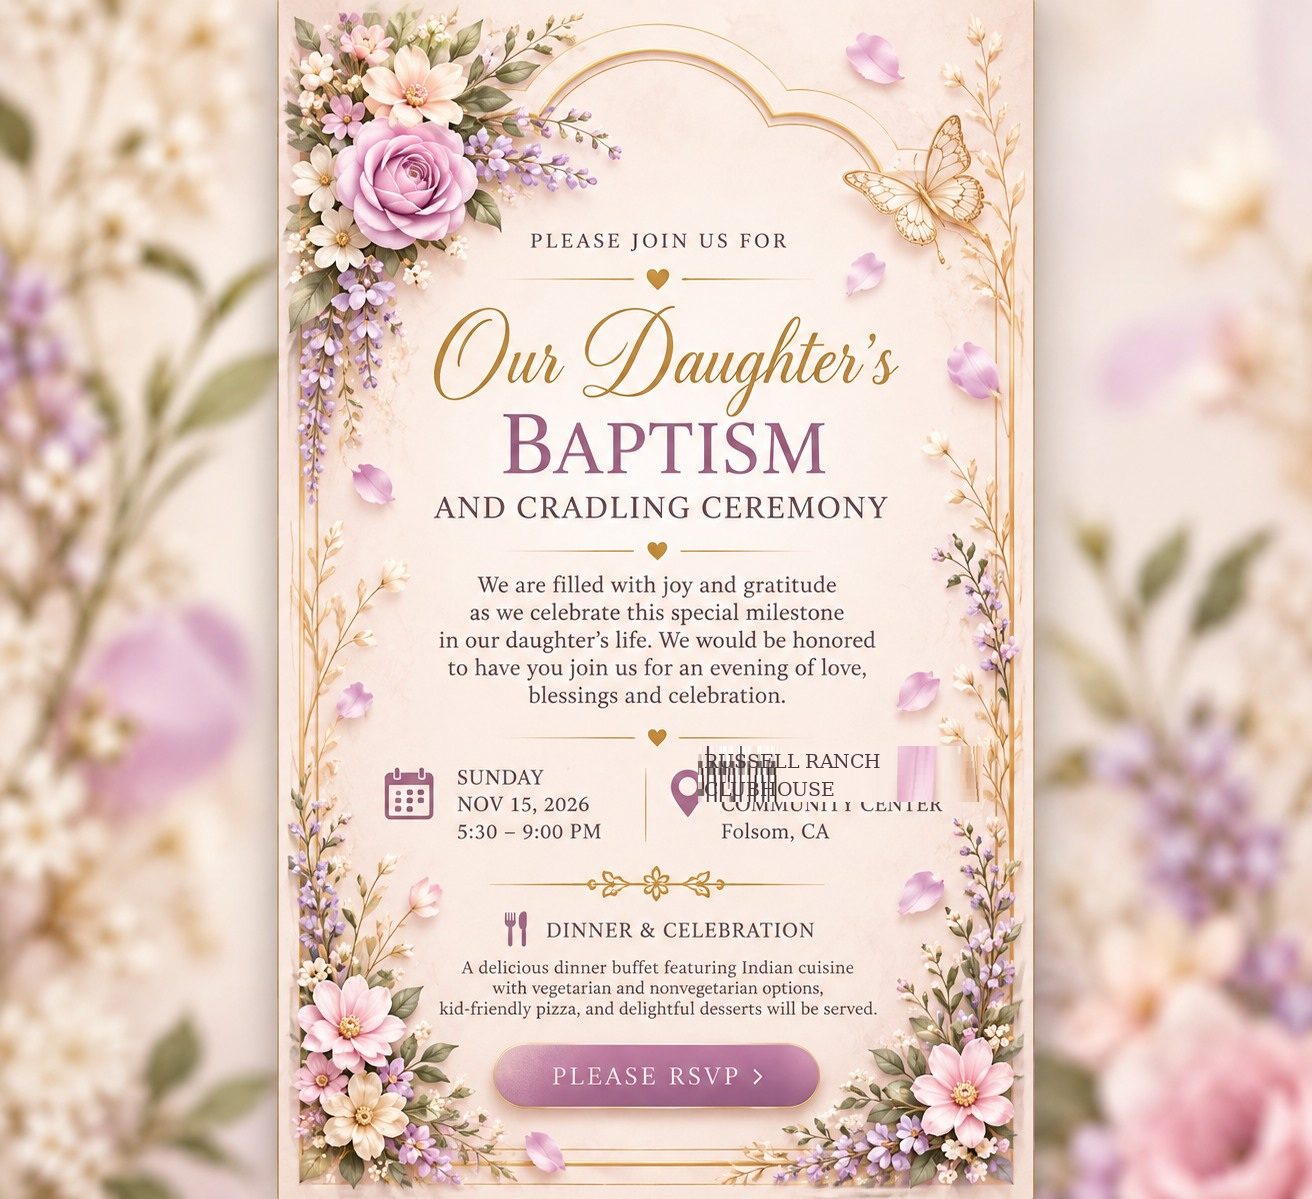
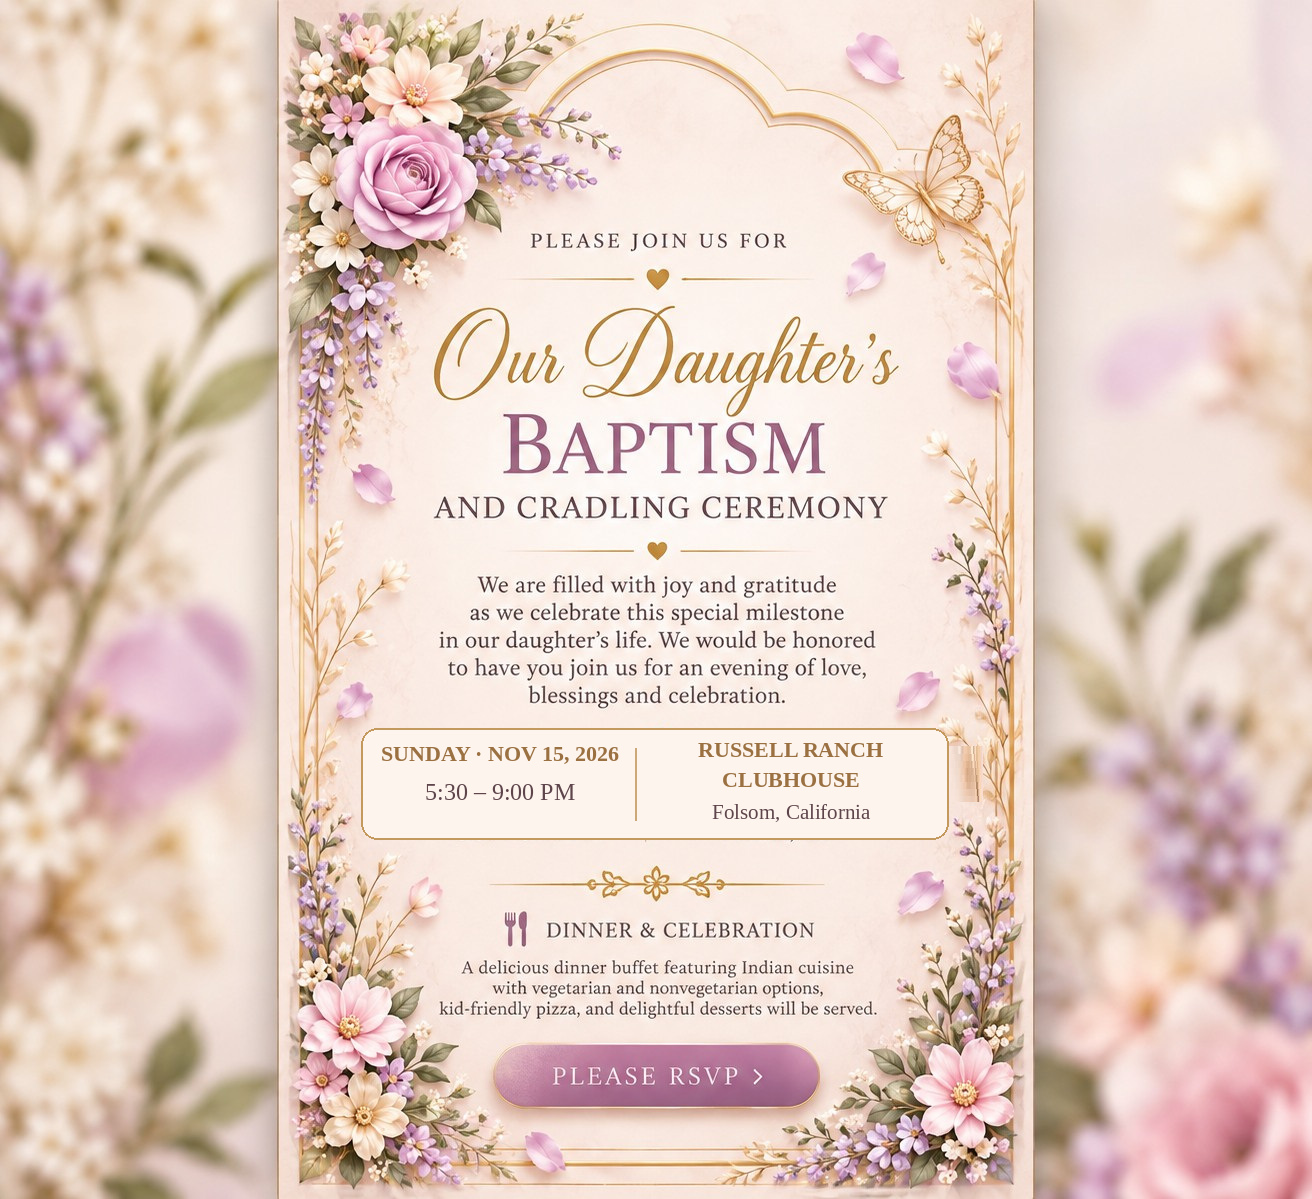
Add files via upload

Changed region(s): [[0.2812, 0.5863, 0.7188, 0.7098]]

diff --git a/index.html b/index.html
@@ -85,15 +85,15 @@ section .flowers{animation:flower-sway 9s ease-in-out infinite alternate}
 <meta property="og:title" content="Our Daughter’s Baptism and Cradling Ceremony">
 <meta property="og:description" content="Sunday, November 15, 2026 · 5:30–9:00 PM · Russell Ranch Clubhouse, Folsom. You’re invited! View the invitation and RSVP.">
 <meta property="og:url" content="https://ourcelebration2026.github.io/invitation/">
-<meta property="og:image" content="https://ourcelebration2026.github.io/invitation/share-preview.jpg?v=5">
-<meta property="og:image:secure_url" content="https://ourcelebration2026.github.io/invitation/share-preview.jpg?v=5">
+<meta property="og:image" content="https://ourcelebration2026.github.io/invitation/share-preview.jpg?v=6">
+<meta property="og:image:secure_url" content="https://ourcelebration2026.github.io/invitation/share-preview.jpg?v=6">
 <meta property="og:image:width" content="1312">
 <meta property="og:image:height" content="1199">
 <meta property="og:image:alt" content="Lavender and blush floral invitation for Our Daughter’s Baptism and Cradling Ceremony">
 <meta name="twitter:card" content="summary_large_image">
 <meta name="twitter:title" content="Our Daughter’s Baptism and Cradling Ceremony">
 <meta name="twitter:description" content="November 15, 2026 · Russell Ranch Clubhouse · View invitation and RSVP">
-<meta name="twitter:image" content="https://ourcelebration2026.github.io/invitation/share-preview.jpg?v=5">
+<meta name="twitter:image" content="https://ourcelebration2026.github.io/invitation/share-preview.jpg?v=6">
 </head><body><div class="door-overlay" id="doors"><div class="door left" aria-hidden="true"><img src="door-floral.png" alt="" draggable="false"></div><div class="door right" aria-hidden="true"><img src="door-floral.png" alt="" draggable="false"></div><button class="door-click-target" id="open" type="button" aria-label="Open invitation"></button></div><main><section class="hero" id="welcome"><div class="flowers a" aria-hidden="true"><span class="petal-bloom"></span><span class="petal-bloom bloom-two"></span><span class="petal-bloom bloom-three"></span></div><div class="flowers b" aria-hidden="true"><span class="petal-bloom"></span><span class="petal-bloom bloom-two"></span><span class="petal-bloom bloom-three"></span></div><div class="panel ornate fade"><div class="eyebrow">A Joyful Beginning</div><div class="divider">✧ ❀ ✧</div><div class="scratch-intro" id="scratchIntro"><p class="scratch-hint" id="scratchHint">✦ A little surprise awaits — rub the gold to reveal her name ✦</p><div class="scratch-card" id="scratchCard"><div class="script scratch-name">Eva Liana</div><canvas id="scratchCanvas" aria-label="Scratch here to reveal Eva Liana’s name"></canvas></div><button class="scratch-skip" type="button" id="revealName">Reveal her name ✧</button></div><h2>Baptism and<br>Cradling Ceremony</h2><p class="copy">A Little Blessing, A Lifetime of Love</p><div class="divider">❦</div><a class="button" href="#celebration">Discover the Celebration ↓</a></div><div class="scroll">SCROLL TO EXPLORE</div></section><section class="light" id="celebration"><div class="flowers a" aria-hidden="true"><span class="petal-bloom"></span><span class="petal-bloom bloom-two"></span><span class="petal-bloom bloom-three"></span></div><div class="panel fade"><div class="eyebrow">Wrapped in Love &amp; Wonder</div><div class="floral-symbol" aria-hidden="true">❀</div><h2>Our little miracle,<br><span class="script">Eva Liana</span></h2><p class="copy">With hearts full of gratitude and joy, we warmly invite you to celebrate the Baptism &amp; Cradling Ceremony of our precious daughter, <strong>Eva Liana Concesso</strong>.<br><br>Please join us for an evening of blessings, love, laughter, delicious food, and cherished memories. We look forward to celebrating this beautiful milestone with our family and friends!</p><div class="divider">✧ ❦ ✧</div></div></section><section class="rosebg" id="details"><div class="flowers b" aria-hidden="true"><span class="petal-bloom"></span><span class="petal-bloom bloom-two"></span><span class="petal-bloom bloom-three"></span></div><div class="panel fade"><div class="eyebrow">You're warmly invited</div><h2>Celebration Details</h2><div class="details"><div class="detail"><span class="eyebrow">Date</span><strong>Sunday, November 15, 2026</strong></div><div class="detail"><span class="eyebrow">Time</span><strong>5:30 PM – 9:00 PM</strong></div><div class="detail"><span class="eyebrow">Venue</span><strong>Russell Ranch Clubhouse</strong><small>14800 Russell Ranch Road, Folsom, CA</small></div></div><p class="note"><a href="https://www.google.com/maps/search/?api=1&amp;query=14800+Russell+Ranch+Road+Folsom+CA" target="_blank" rel="noopener">Get directions to the reception →</a></p></div></section><section class="light" id="dinner"><div class="flowers a" aria-hidden="true"><span class="petal-bloom"></span><span class="petal-bloom bloom-two"></span><span class="petal-bloom bloom-three"></span></div><div class="panel fade"><div class="eyebrow">Gather around the table</div><h2>Dinner & Refreshments</h2><p class="copy">A delicious dinner buffet featuring vegetarian and nonvegetarian options, kid-friendly favorites, and delightful desserts will be served.</p><div class="divider">✧ ❦ ✧</div><p>Good food, warm company, and beautiful memories.</p></div></section><section class="rosebg" id="rsvp"><div class="panel fade"><div class="eyebrow">We'd love to celebrate with you</div><h2>Kindly RSVP</h2><p><strong>Kindly RSVP by November 5, 2026.</strong></p><p>Please include the total number of adults and children attending, including any additional family members or friends. If you have food allergies or dietary restrictions, kindly let us know.</p><form id="rsvpForm" data-endpoint="https://formspree.io/f/mnppnarr"><div class="field"><label for="name">Your name *</label><input id="name" required maxlength="120" autocomplete="name"></div><div class="field"><label for="attendance">Will you attend? *</label><select id="attendance" required><option value="">Please select</option><option>Joyfully accepts</option><option>Regretfully declines</option></select></div><div class="field"><label for="adults">Total adults attending (including additional guests)</label><input id="adults" type="number" min="0" max="30" value="1"></div><div class="field"><label for="children">Total children attending (including additional guests)</label><input id="children" type="number" min="0" max="30" value="0"></div><div class="field"><label for="diet">Dietary preferences or allergies</label><textarea id="diet" placeholder="Vegetarian, allergies, or other notes"></textarea></div><div class="field"><label for="message">Message for the family (optional)</label><textarea id="message" placeholder="A sweet note..."></textarea></div><button type="submit" class="button" id="submitRsvp">Submit RSVP</button><p class="note" id="formNotice">Your response will be sent securely to the hosts. A confirmation will appear here after successful submission.</p></form><div id="rsvpSuccess" class="rsvp-success" role="status" aria-live="polite" hidden><div class="success-flower" aria-hidden="true">❀</div><h3 id="successHeading"></h3><p id="successBody"></p><p class="note">With love, Prem &amp; Smitha ❤</p><button type="button" class="button secondary" id="anotherRsvp">Submit another RSVP</button></div></div></section><section class="light" id="travel"><div class="panel fade"><div class="eyebrow">For our out-of-town guests</div><h2>Make a Weekend of It!</h2><p>For our wonderful family and friends visiting from out of town, we encourage you to explore some of Northern California’s beautiful attractions during your stay!</p><h3>Apple Hill</h3><p>Explore charming apple orchards, enjoy freshly baked pies, apple cider donuts, and beautiful fall scenery.</p><div class="links"><a class="button secondary" href="https://applehill.com/" target="_blank" rel="noopener">Explore Apple Hill</a></div><h3>Lake Tahoe</h3><p>Experience breathtaking mountain views, beautiful lakeside scenery, and perhaps some early winter snow.</p><div class="links"><a class="button secondary" href="https://visitlaketahoe.com/" target="_blank" rel="noopener">Explore Tahoe</a></div><h3>Historic Folsom</h3><p>Discover charming boutiques, cafés, historic streets, and local attractions.</p><div class="links"><a class="button secondary" href="https://historicfolsom.org/" target="_blank" rel="noopener">Explore Historic Folsom</a></div><h3>Folsom Lake</h3><p>Enjoy scenic lakeside walks, family photographs, and peaceful nature views.</p><div class="links"><a class="button secondary" href="https://www.google.com/maps/search/?api=1&amp;query=Folsom+Lake+California" target="_blank" rel="noopener">Explore Folsom Lake</a></div><p class="note">These are optional sightseeing suggestions. Please check operating hours, weather, and road conditions before traveling.</p></div></section><section class="rosebg foot"><div class="flowers a" aria-hidden="true"><span class="petal-bloom"></span><span class="petal-bloom bloom-two"></span><span class="petal-bloom bloom-three"></span></div><div class="flowers b" aria-hidden="true"><span class="petal-bloom"></span><span class="petal-bloom bloom-two"></span><span class="petal-bloom bloom-three"></span></div><div class="panel fade"><div class="floral-symbol" aria-hidden="true">❀</div><div class="script">Thank You</div><p class="copy">We can’t wait to celebrate with you!</p><div class="divider">❦</div><div class="eyebrow">With love</div><h2>Prem &amp; Smitha ❤</h2><p class="note">Questions? Contact the hosts:</p><div class="links"><a class="button secondary" href="tel:+19726708220">Prem · (972) 670-8220</a><a class="button secondary" href="tel:+14694870181">Smitha · (469) 487-0181</a></div><div class="eyebrow">Eva Liana's Baptism and Cradling Ceremony</div></div></section></main><script>
 const doors=document.getElementById('doors');document.getElementById('open').addEventListener('click',()=>{doors.classList.add('open');setTimeout(()=>{doors.hidden=true},3350)});const observer=new IntersectionObserver(items=>items.forEach(x=>{if(x.isIntersecting)x.target.classList.add('visible')}),{threshold:.12});document.querySelectorAll('.fade').forEach(x=>observer.observe(x));const rsvpForm=document.getElementById('rsvpForm');const attendance=document.getElementById('attendance');const countFields=['adults','children'].map(id=>document.getElementById(id));function updateAttendance(){const declining=attendance.value==='Regretfully declines';countFields.forEach(field=>{field.disabled=declining;field.closest('.field').style.display=declining?'none':''});document.getElementById('diet').closest('.field').style.display=declining?'none':'';}attendance.addEventListener('change',updateAttendance);updateAttendance();rsvpForm.addEventListener('submit',async e=>{e.preventDefault();const endpoint=rsvpForm.dataset.endpoint;const notice=document.getElementById('formNotice');if(!/^https:\/\/formspree\.io\/f\/[a-zA-Z0-9]+$/.test(endpoint||'')){notice.textContent='RSVP submissions are not yet enabled. The host must connect a Formspree form endpoint first.';return;}const get=id=>document.getElementById(id).value.trim();const payload={name:get('name'),attendance:get('attendance'),adults:attendance.value==='Regretfully declines'?'0':get('adults'),children:attendance.value==='Regretfully declines'?'0':get('children'),dietary_preferences:attendance.value==='Regretfully declines'?'':get('diet'),message:get('message'),event:'Eva Liana’s Baptism and Cradling Ceremony'};if(payload.attendance==='Joyfully accepts'&&Number(payload.adults)+Number(payload.children)<1){notice.textContent='Please enter at least one attendee.';return;}const button=document.getElementById('submitRsvp');button.disabled=true;button.textContent='Submitting…';try{const res=await fetch(endpoint,{method:'POST',headers:{'Content-Type':'application/json','Accept':'application/json'},body:JSON.stringify(payload)});if(!res.ok){if(res.status===429)throw Error('Too many submissions right now. Please wait a few minutes and try again.');let info;try{info=await res.json()}catch(_){};throw Error(info?.errors?.map(x=>x.message).join(' ')||'Submission could not be completed. Please try again.');}const accepted=payload.attendance==='Joyfully accepts';document.getElementById('successHeading').textContent=accepted?'Thank You for Celebrating With Us!':'Thank You for Letting Us Know';document.getElementById('successBody').textContent=accepted?'Your RSVP has been received! We are delighted that you’ll join us to celebrate Eva Liana’s special day. We look forward to seeing you on November 15!':'Your response has been received. We’ll miss you at Eva Liana’s celebration and appreciate your warm wishes.';rsvpForm.reset();updateAttendance();rsvpForm.hidden=true;document.getElementById('rsvpSuccess').hidden=false;button.disabled=false;button.textContent='Submit RSVP';}catch(err){notice.textContent=err.message&&err.message!=='Failed to fetch'?err.message:'Your RSVP could not be submitted. Please try again or contact the hosts.';button.disabled=false;button.textContent='Submit RSVP';}});
 document.getElementById('anotherRsvp').addEventListener('click',()=>{document.getElementById('rsvpSuccess').hidden=true;rsvpForm.hidden=false;document.getElementById('formNotice').textContent='Your response will be sent securely to the hosts. A confirmation will appear here after successful submission.';document.getElementById('name').focus()});
